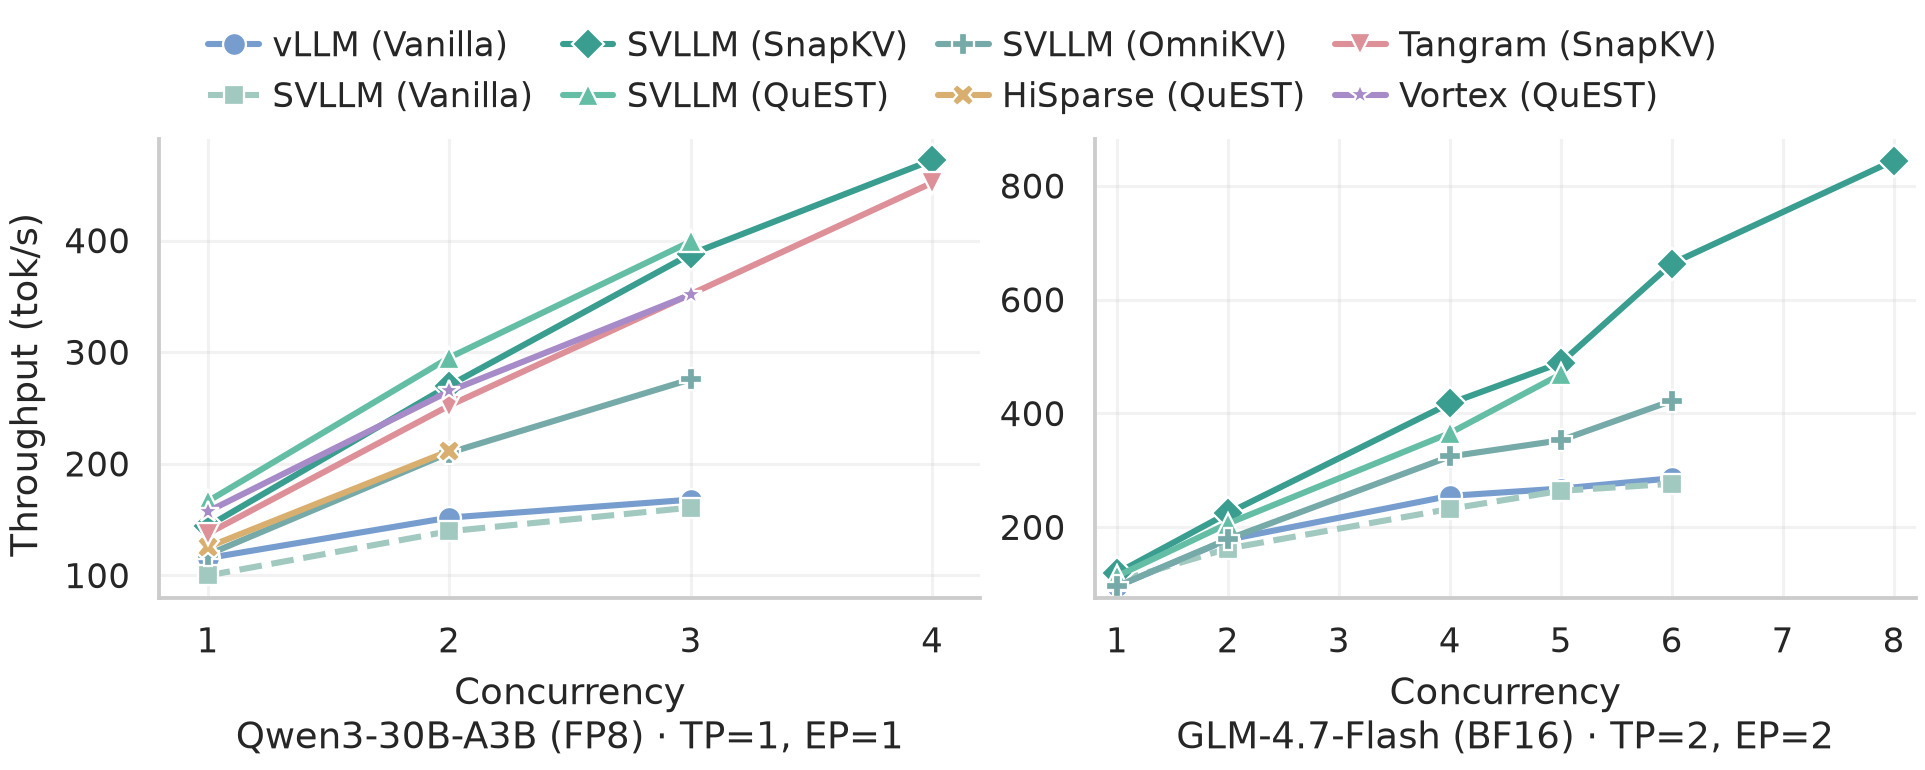
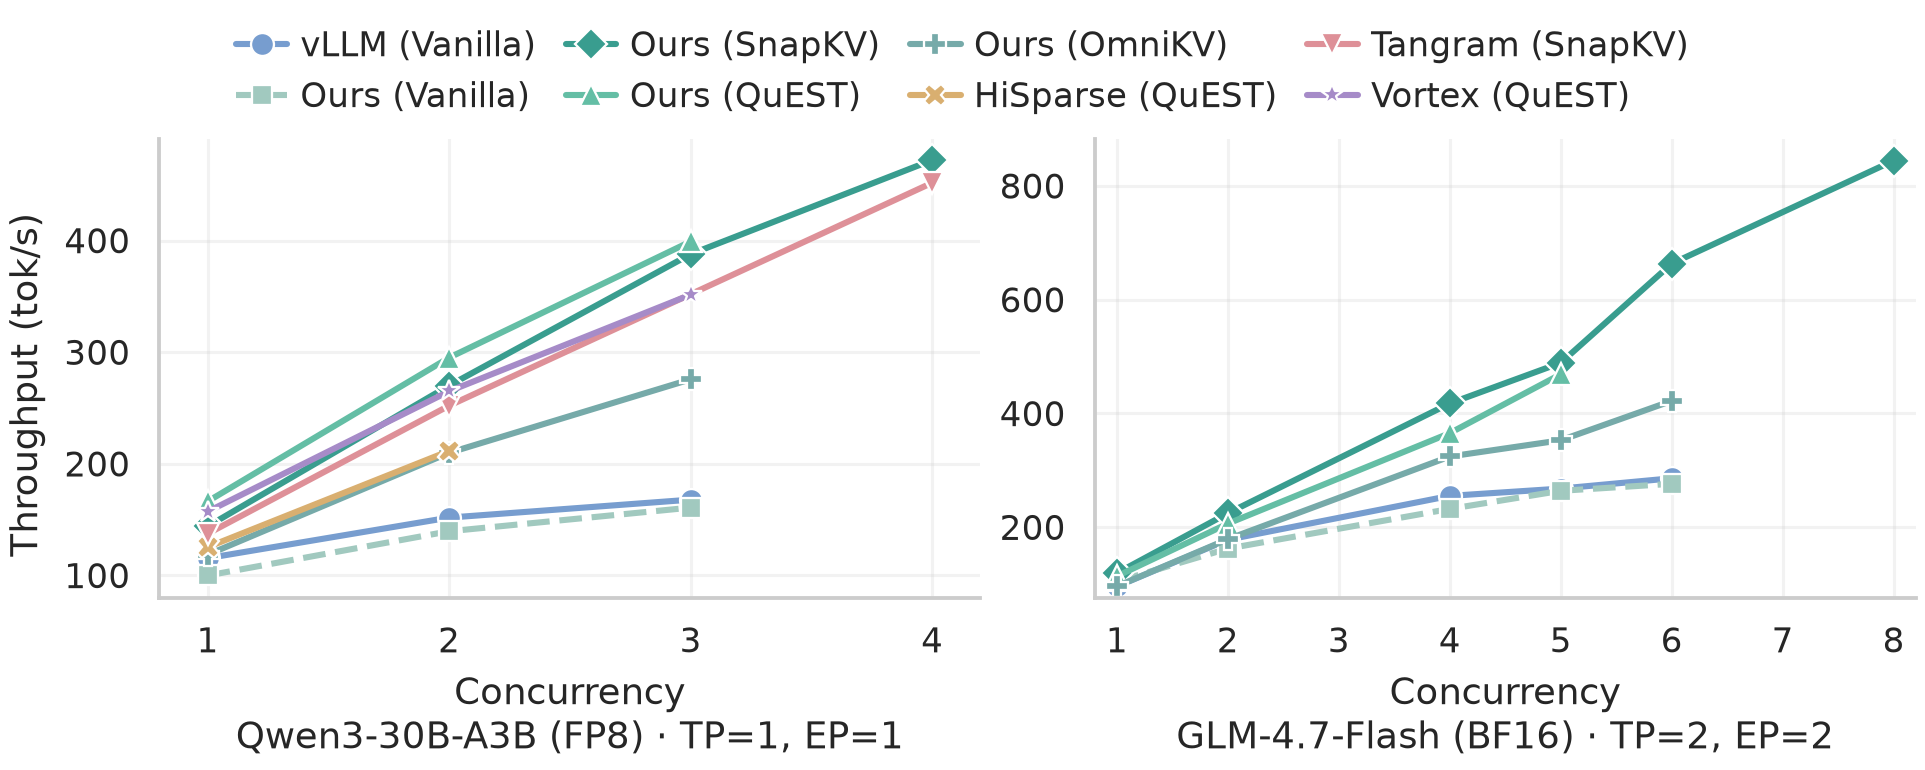
docs: label native decode efficiency series as ours

Changed region(s): [[0.0935, 0.0312, 0.9039, 0.1558]]

diff --git a/scripts/official_experiments/sparse_decode_efficiency/plot_decode_capacity.py b/scripts/official_experiments/sparse_decode_efficiency/plot_decode_capacity.py
@@ -26,11 +26,11 @@ from benchmark.efficiency.paper import without_source_fingerprints
 
 LANES = {
     "vllm-vanilla": ("vLLM (Vanilla)", "o"),
-    "sengine-vanilla": ("SENGINE (Vanilla)", "s"),
-    "sengine-snapkv": ("SENGINE (SnapKV)", "D"),
-    "sengine-h2o": ("SENGINE (H2O)", "h"),
-    "sengine-quest": ("SENGINE (QuEST)", "^"),
-    "sengine-omnikv": ("SENGINE (OmniKV)", "P"),
+    "sengine-vanilla": ("Ours (Vanilla)", "s"),
+    "sengine-snapkv": ("Ours (SnapKV)", "D"),
+    "sengine-h2o": ("Ours (H2O)", "h"),
+    "sengine-quest": ("Ours (QuEST)", "^"),
+    "sengine-omnikv": ("Ours (OmniKV)", "P"),
 }
 EXTERNAL_LANES = {"tangram-snapkv": ("Tangram (SnapKV)", "v"),
                   "hisparse-quest": ("HiSparse (QuEST)", "X"),

diff --git a/scripts/official_experiments/sparse_decode_efficiency/README.md b/scripts/official_experiments/sparse_decode_efficiency/README.md
@@ -16,7 +16,8 @@ full path; reusable preparation, sweep, validation, and plotting remain here.
 
 ## README figures
 
-The repository READMEs reuse three archived 128K-only figures, in this order:
+The repository READMEs show three figures re-rendered from the archived 128K-only
+data with native methods labelled Ours, in this order:
 
 | View | Archived figure | README asset under `docs/assets/` |
 | --- | --- | --- |
@@ -24,7 +25,8 @@ The repository READMEs reuse three archived 128K-only figures, in this order:
 | Absolute throughput lines | `decode_capacity_128k_lowbs.png` | `sparse_decode_efficiency_lowbs.png` |
 | Relative throughput lines | `decode_capacity_128k_lowbs_delta_vllm.png` | `sparse_decode_efficiency_relative_vllm.png` |
 
-SVLLM is the SparseEngine label retained in these figures.
+Ours denotes SparseEngine. The label update preserves the archived measurements,
+colors, batch selection, and relative-throughput calculation.
 
 All use H100 80GB, 128K input / 2K output and `boundary_sync_v2`: 32 warmup
 steps followed by a continuous 256-step full-residency decode window, with one
@@ -44,9 +46,9 @@ remain distinct; these figures do not establish equal quality.
 ## Framework color families
 
 The default `palettes/framework_families.json` keeps a fresh, modern palette.
-Each framework has a distinct color family: SENGINE uses related teal shades,
+Each framework has a distinct color family: Ours uses related teal shades,
 vLLM blue, Tangram coral, Vortex lavender, and HiSparse warm gold. Methods
-within SENGINE retain distinct markers and explicit framework/method labels.
+within Ours retain distinct markers and explicit framework/method labels.
 Reuse this family assignment when adding methods; preserve archived palettes
 when reproducing historical figures.
 

diff --git a/README.md b/README.md
@@ -21,8 +21,8 @@ A sparse-first inference engine for long-context LLM serving.
 128K input / 2K output on H100 80GB. Top: decode throughput at each method's
 largest measured batch. Middle: absolute throughput at low concurrency.
 Bottom: throughput improvement relative to vLLM Vanilla
-at the same concurrency, with vLLM at 0%. The archived figures
-label SparseEngine as SVLLM. See the [measurement and figure notes](scripts/official_experiments/sparse_decode_efficiency/README.md#readme-figures).
+at the same concurrency, with vLLM at 0%. Ours denotes SparseEngine.
+See the [measurement and figure notes](scripts/official_experiments/sparse_decode_efficiency/README.md#readme-figures).
 
 ## Project Overview
 
